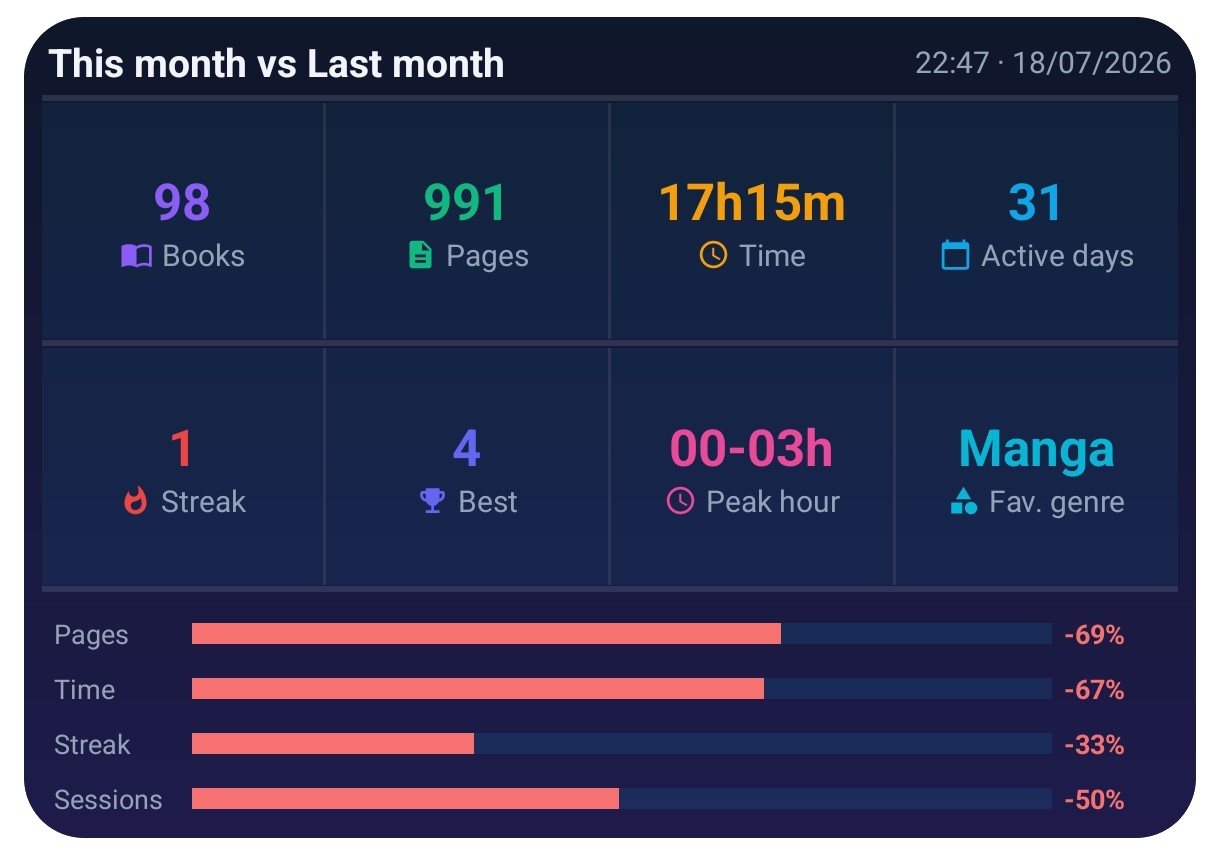
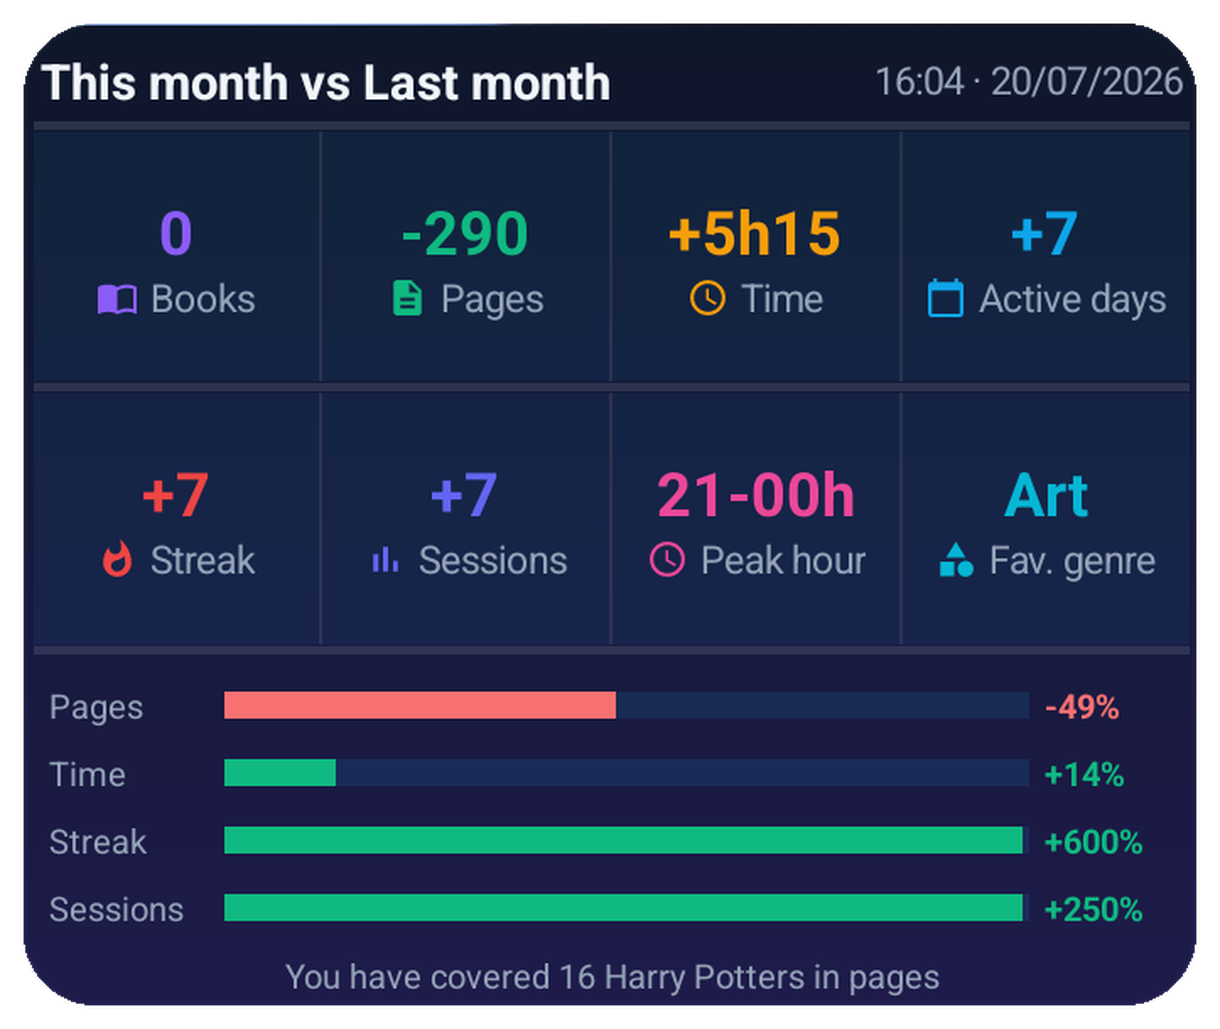
Precios por region + widget Pro actualizado
Nuevo apartado "Precios por region" (ES y EN) con los precios reales de
lanzamiento por pais, agrupados en tres tramos. Desde la tarjeta de Pro
del apartado de precios se enlaza a el, con una linea que aclara que el
precio esta adaptado a cada pais.

Capturas del widget Pro regeneradas con el rediseno mensual (marca + / -
delante de cada dato, Sesiones en lugar de Mejor) y descripcion del widget
actualizada en los dos idiomas.

diff --git a/index.html b/index.html
@@ -205,6 +205,7 @@
                     <div class="pricing-name">Lecturameter Pro</div>
                     <div class="price-row"><span class="price-old">4,99 €</span><span class="price-new">2,99 €</span></div>
                     <p class="price-note">El primer mes. Sube a 4,99 € después. Es una compra única, no una suscripción.</p>
+                    <p class="price-note price-regional-link">El precio está adaptado a cada país: en varios mercados es bastante más bajo. <a href="#precios-regionales">Mira los precios por región</a>.</p>
                     <p class="price-trial">🕒 Prueba Pro gratis 7 días, dentro de la propia app</p>
                     <ul class="pricing-list">
                         <li>Temas Cuero, Aurora y OLED</li>
@@ -237,6 +238,65 @@
                     <figure data-src="tema_oled_es.jpg?v=250718b"><img src="tema_oled_es.jpg?v=250718b" alt="Tema OLED" width="360" height="713" loading="lazy"><figcaption>OLED · Pro</figcaption></figure>
                     <figure data-src="tema_cuero_es.jpg?v=250718b"><img src="tema_cuero_es.jpg?v=250718b" alt="Tema Cuero" width="360" height="713" loading="lazy"><figcaption>Cuero · Pro</figcaption></figure>
                 </div>
+            </div>
+        </div>
+
+        <!-- PRECIOS REGIONALES -->
+        <div class="section" id="precios-regionales">
+            <div class="section-head">
+                <h2>Precios por región</h2>
+                <p>2,99 € es el precio de lanzamiento en España. En países donde ese importe pesa mucho más, Pro cuesta bastante menos: prefiero que la app llegue a quien quiera usarla antes que dejar fuera a medio mundo. Estos son los precios de lanzamiento; Google los cobra en tu moneda y los impuestos ya van incluidos donde corresponde.</p>
+            </div>
+
+            <div class="regional-tier">
+                <h3>Alrededor de 0,99 €</h3>
+                <ul class="regional-list">
+                    <li><span class="rp-country">India</span><span class="rp-price">130 INR</span></li>
+                    <li><span class="rp-country">Turquía</span><span class="rp-price">63,99 TRY</span></li>
+                    <li><span class="rp-country">Indonesia</span><span class="rp-price">20.000 IDR</span></li>
+                    <li><span class="rp-country">Filipinas</span><span class="rp-price">78 PHP</span></li>
+                    <li><span class="rp-country">Egipto</span><span class="rp-price">65,99 EGP</span></li>
+                    <li><span class="rp-country">Pakistán</span><span class="rp-price">310 PKR</span></li>
+                    <li><span class="rp-country">Nigeria</span><span class="rp-price">1.680 NGN</span></li>
+                    <li><span class="rp-country">Vietnam</span><span class="rp-price">30.000 VND</span></li>
+                    <li><span class="rp-country">Ucrania</span><span class="rp-price">59,99 UAH</span></li>
+                    <li><span class="rp-country">Kenia</span><span class="rp-price">200 KES</span></li>
+                    <li><span class="rp-country">Marruecos</span><span class="rp-price">12,99 MAD</span></li>
+                    <li><span class="rp-country">Bangladés</span><span class="rp-price">150 BDT</span></li>
+                    <li><span class="rp-country">Argentina</span><span class="rp-price">1,13 USD</span></li>
+                </ul>
+            </div>
+
+            <div class="regional-tier">
+                <h3>Alrededor de 1,79 €</h3>
+                <ul class="regional-list">
+                    <li><span class="rp-country">México</span><span class="rp-price">41 MXN</span></li>
+                    <li><span class="rp-country">Brasil</span><span class="rp-price">9,99 BRL</span></li>
+                    <li><span class="rp-country">Colombia</span><span class="rp-price">6.500 COP</span></li>
+                    <li><span class="rp-country">Chile</span><span class="rp-price">2.300 CLP</span></li>
+                    <li><span class="rp-country">Perú</span><span class="rp-price">6,99 PEN</span></li>
+                    <li><span class="rp-country">Polonia</span><span class="rp-price">9,49 PLN</span></li>
+                    <li><span class="rp-country">Rumanía</span><span class="rp-price">10,99 RON</span></li>
+                    <li><span class="rp-country">Hungría</span><span class="rp-price">799 HUF</span></li>
+                    <li><span class="rp-country">Chequia</span><span class="rp-price">49,99 CZK</span></li>
+                    <li><span class="rp-country">Sudáfrica</span><span class="rp-price">38,99 ZAR</span></li>
+                    <li><span class="rp-country">Malasia</span><span class="rp-price">8,99 MYR</span></li>
+                    <li><span class="rp-country">Tailandia</span><span class="rp-price">74 THB</span></li>
+                </ul>
+            </div>
+
+            <div class="regional-tier">
+                <h3>Resto de países</h3>
+                <ul class="regional-list">
+                    <li><span class="rp-country">España</span><span class="rp-price">2,99 EUR</span></li>
+                    <li><span class="rp-country">Alemania</span><span class="rp-price">3,59 EUR</span></li>
+                    <li><span class="rp-country">Estados Unidos</span><span class="rp-price">3,39 USD</span></li>
+                    <li><span class="rp-country">Reino Unido</span><span class="rp-price">3,09 GBP</span></li>
+                    <li><span class="rp-country">Canadá</span><span class="rp-price">4,79 CAD</span></li>
+                    <li><span class="rp-country">Australia</span><span class="rp-price">5,49 AUD</span></li>
+                    <li><span class="rp-country">Japón</span><span class="rp-price">620 JPY</span></li>
+                </ul>
+                <p class="regional-note">La lista completa la ves en la ficha de Google Play desde tu país. Las diferencias entre estos precios son la conversión de Google y los impuestos de cada sitio, no un recargo mío.</p>
             </div>
         </div>
 
@@ -431,9 +491,9 @@
                 </div>
                 <div class="widget-column">
                     <h3 class="widget-type-label">Widget de comparativa mensual <span class="pro-badge-sm">PRO</span></h3>
-                    <p class="widget-type-desc">Compara tu mes actual con el anterior. Barras verdes y rojas para ver al instante si vas mejor o peor.</p>
+                    <p class="widget-type-desc">Compara tu mes actual con el anterior. Cada dato lleva su + o su - delante, y las barras salen verdes o rojas para ver al instante si vas mejor o peor.</p>
                     <div class="widget-demo widget-nobg">
-                        <img src="widget_pro_es.png" alt="Widget de comparativa mensual en pantalla de inicio" loading="lazy">
+                        <img src="widget_pro_es.png?v=250720" alt="Widget de comparativa mensual en pantalla de inicio" loading="lazy">
                     </div>
                 </div>
             </div>
@@ -624,6 +684,7 @@
                     <div class="pricing-name">Lecturameter Pro</div>
                     <div class="price-row"><span class="price-old">4.99 EUR</span><span class="price-new">2.99 EUR</span></div>
                     <p class="price-note">For the first month. Goes up to 4.99 EUR after. One-time purchase, not a subscription.</p>
+                    <p class="price-note price-regional-link">The price is adapted to each country, and it is a lot lower in several markets. <a href="#regional-pricing">See the regional prices</a>.</p>
                     <p class="price-trial">🕒 Try Pro free for 7 days, right inside the app</p>
                     <ul class="pricing-list">
                         <li>Leather, Aurora and OLED themes</li>
@@ -656,6 +717,65 @@
                     <figure data-src="tema_oled_en.jpg?v=250718b"><img src="tema_oled_en.jpg?v=250718b" alt="OLED theme" width="360" height="713" loading="lazy"><figcaption>OLED · Pro</figcaption></figure>
                     <figure data-src="tema_cuero_en.jpg?v=250718b"><img src="tema_cuero_en.jpg?v=250718b" alt="Leather theme" width="360" height="713" loading="lazy"><figcaption>Leather · Pro</figcaption></figure>
                 </div>
+            </div>
+        </div>
+
+        <!-- REGIONAL PRICING EN -->
+        <div class="section" id="regional-pricing">
+            <div class="section-head">
+                <h2>Regional pricing</h2>
+                <p>2.99 EUR is the launch price in Spain. In countries where that amount weighs a lot more, Pro costs considerably less: I would rather the app reach anyone who wants to use it than price half the world out. These are the launch prices; Google charges them in your currency, taxes included where they apply.</p>
+            </div>
+
+            <div class="regional-tier">
+                <h3>Around 0.99 EUR</h3>
+                <ul class="regional-list">
+                    <li><span class="rp-country">India</span><span class="rp-price">130 INR</span></li>
+                    <li><span class="rp-country">Türkiye</span><span class="rp-price">63.99 TRY</span></li>
+                    <li><span class="rp-country">Indonesia</span><span class="rp-price">20,000 IDR</span></li>
+                    <li><span class="rp-country">Philippines</span><span class="rp-price">78 PHP</span></li>
+                    <li><span class="rp-country">Egypt</span><span class="rp-price">65.99 EGP</span></li>
+                    <li><span class="rp-country">Pakistan</span><span class="rp-price">310 PKR</span></li>
+                    <li><span class="rp-country">Nigeria</span><span class="rp-price">1,680 NGN</span></li>
+                    <li><span class="rp-country">Vietnam</span><span class="rp-price">30,000 VND</span></li>
+                    <li><span class="rp-country">Ukraine</span><span class="rp-price">59.99 UAH</span></li>
+                    <li><span class="rp-country">Kenya</span><span class="rp-price">200 KES</span></li>
+                    <li><span class="rp-country">Morocco</span><span class="rp-price">12.99 MAD</span></li>
+                    <li><span class="rp-country">Bangladesh</span><span class="rp-price">150 BDT</span></li>
+                    <li><span class="rp-country">Argentina</span><span class="rp-price">1.13 USD</span></li>
+                </ul>
+            </div>
+
+            <div class="regional-tier">
+                <h3>Around 1.79 EUR</h3>
+                <ul class="regional-list">
+                    <li><span class="rp-country">Mexico</span><span class="rp-price">41 MXN</span></li>
+                    <li><span class="rp-country">Brazil</span><span class="rp-price">9.99 BRL</span></li>
+                    <li><span class="rp-country">Colombia</span><span class="rp-price">6,500 COP</span></li>
+                    <li><span class="rp-country">Chile</span><span class="rp-price">2,300 CLP</span></li>
+                    <li><span class="rp-country">Peru</span><span class="rp-price">6.99 PEN</span></li>
+                    <li><span class="rp-country">Poland</span><span class="rp-price">9.49 PLN</span></li>
+                    <li><span class="rp-country">Romania</span><span class="rp-price">10.99 RON</span></li>
+                    <li><span class="rp-country">Hungary</span><span class="rp-price">799 HUF</span></li>
+                    <li><span class="rp-country">Czechia</span><span class="rp-price">49.99 CZK</span></li>
+                    <li><span class="rp-country">South Africa</span><span class="rp-price">38.99 ZAR</span></li>
+                    <li><span class="rp-country">Malaysia</span><span class="rp-price">8.99 MYR</span></li>
+                    <li><span class="rp-country">Thailand</span><span class="rp-price">74 THB</span></li>
+                </ul>
+            </div>
+
+            <div class="regional-tier">
+                <h3>Everywhere else</h3>
+                <ul class="regional-list">
+                    <li><span class="rp-country">Spain</span><span class="rp-price">2.99 EUR</span></li>
+                    <li><span class="rp-country">Germany</span><span class="rp-price">3.59 EUR</span></li>
+                    <li><span class="rp-country">United States</span><span class="rp-price">3.39 USD</span></li>
+                    <li><span class="rp-country">United Kingdom</span><span class="rp-price">3.09 GBP</span></li>
+                    <li><span class="rp-country">Canada</span><span class="rp-price">4.79 CAD</span></li>
+                    <li><span class="rp-country">Australia</span><span class="rp-price">5.49 AUD</span></li>
+                    <li><span class="rp-country">Japan</span><span class="rp-price">620 JPY</span></li>
+                </ul>
+                <p class="regional-note">You can see the full list on the Google Play listing from your own country. The gaps between these prices are Google's currency conversion and local taxes, not a surcharge from me.</p>
             </div>
         </div>
 
@@ -850,9 +970,9 @@
                 </div>
                 <div class="widget-column">
                     <h3 class="widget-type-label">Monthly comparison widget <span class="pro-badge-sm">PRO</span></h3>
-                    <p class="widget-type-desc">Compare your current month with the previous one. Green and red bars to instantly see if you're doing better or worse.</p>
+                    <p class="widget-type-desc">Compare your current month with the previous one. Every figure carries its own + or - in front, and the bars turn green or red so you can tell at a glance whether you are doing better or worse.</p>
                     <div class="widget-demo widget-nobg">
-                        <img src="widget_pro_en.png" alt="Monthly comparison widget on home screen" loading="lazy">
+                        <img src="widget_pro_en.png?v=250720" alt="Monthly comparison widget on home screen" loading="lazy">
                     </div>
                 </div>
             </div>

diff --git a/styles.css b/styles.css
@@ -1491,3 +1491,41 @@ h2 { font-size: 20px; font-weight: 700; color: var(--text); margin-bottom: 10px;
     .sw-lbl { font-size: 8px; }
     .sw-bar-label { width: 44px; font-size: 8px; }
 }
+
+/* ─── PRECIOS REGIONALES ─── */
+.price-regional-link { margin-top: -8px; }
+.price-regional-link a { color: var(--accent); text-decoration: none; border-bottom: 1px solid rgba(139, 139, 255, 0.4); }
+.price-regional-link a:hover { border-bottom-color: var(--accent); }
+
+.regional-tier { margin-bottom: 28px; }
+.regional-tier h3 {
+    font-size: 15px;
+    font-weight: 700;
+    color: var(--accent);
+    margin-bottom: 12px;
+    padding-bottom: 8px;
+    border-bottom: 1px solid var(--line);
+}
+.regional-list {
+    list-style: none;
+    display: grid;
+    grid-template-columns: repeat(auto-fill, minmax(220px, 1fr));
+    gap: 8px 20px;
+}
+.regional-list li {
+    display: flex;
+    align-items: baseline;
+    justify-content: space-between;
+    gap: 10px;
+    padding: 7px 12px;
+    background: var(--card);
+    border: 1px solid var(--line);
+    border-radius: 9px;
+}
+.rp-country { font-size: 13.5px; color: var(--text); }
+.rp-price { font-size: 13.5px; font-weight: 700; color: var(--accent); white-space: nowrap; }
+.regional-note { font-size: 12.5px; color: var(--muted); line-height: 1.6; margin-top: 14px; }
+
+@media (max-width: 560px) {
+    .regional-list { grid-template-columns: 1fr; }
+}
